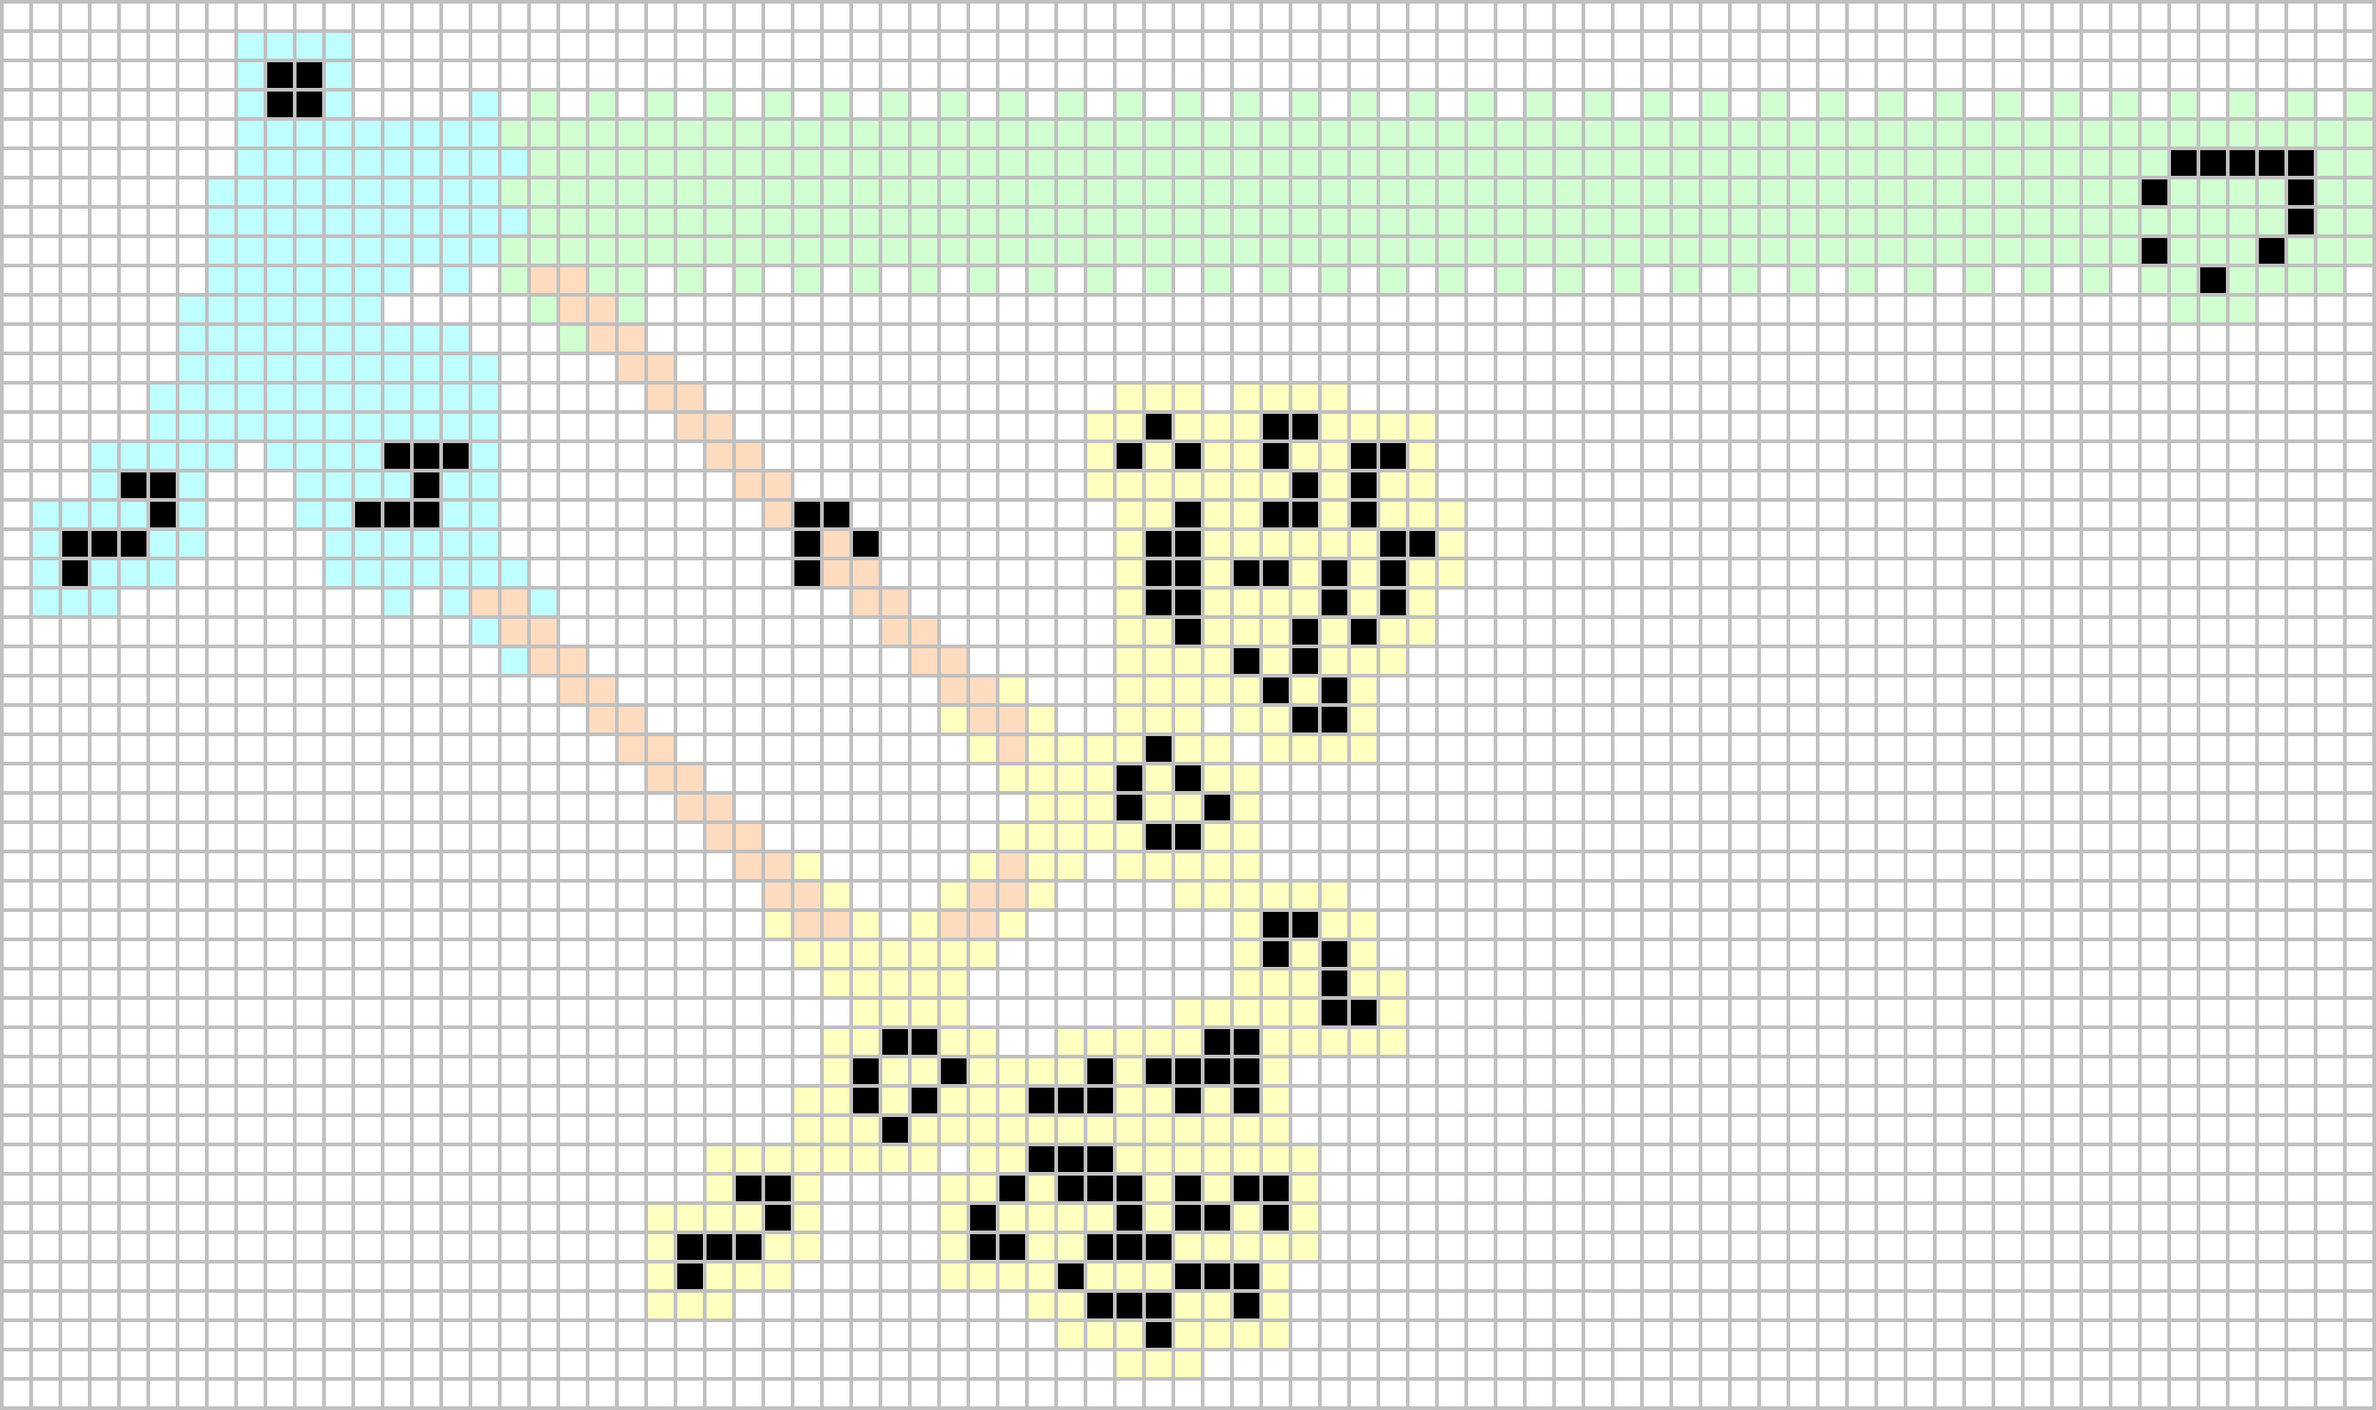
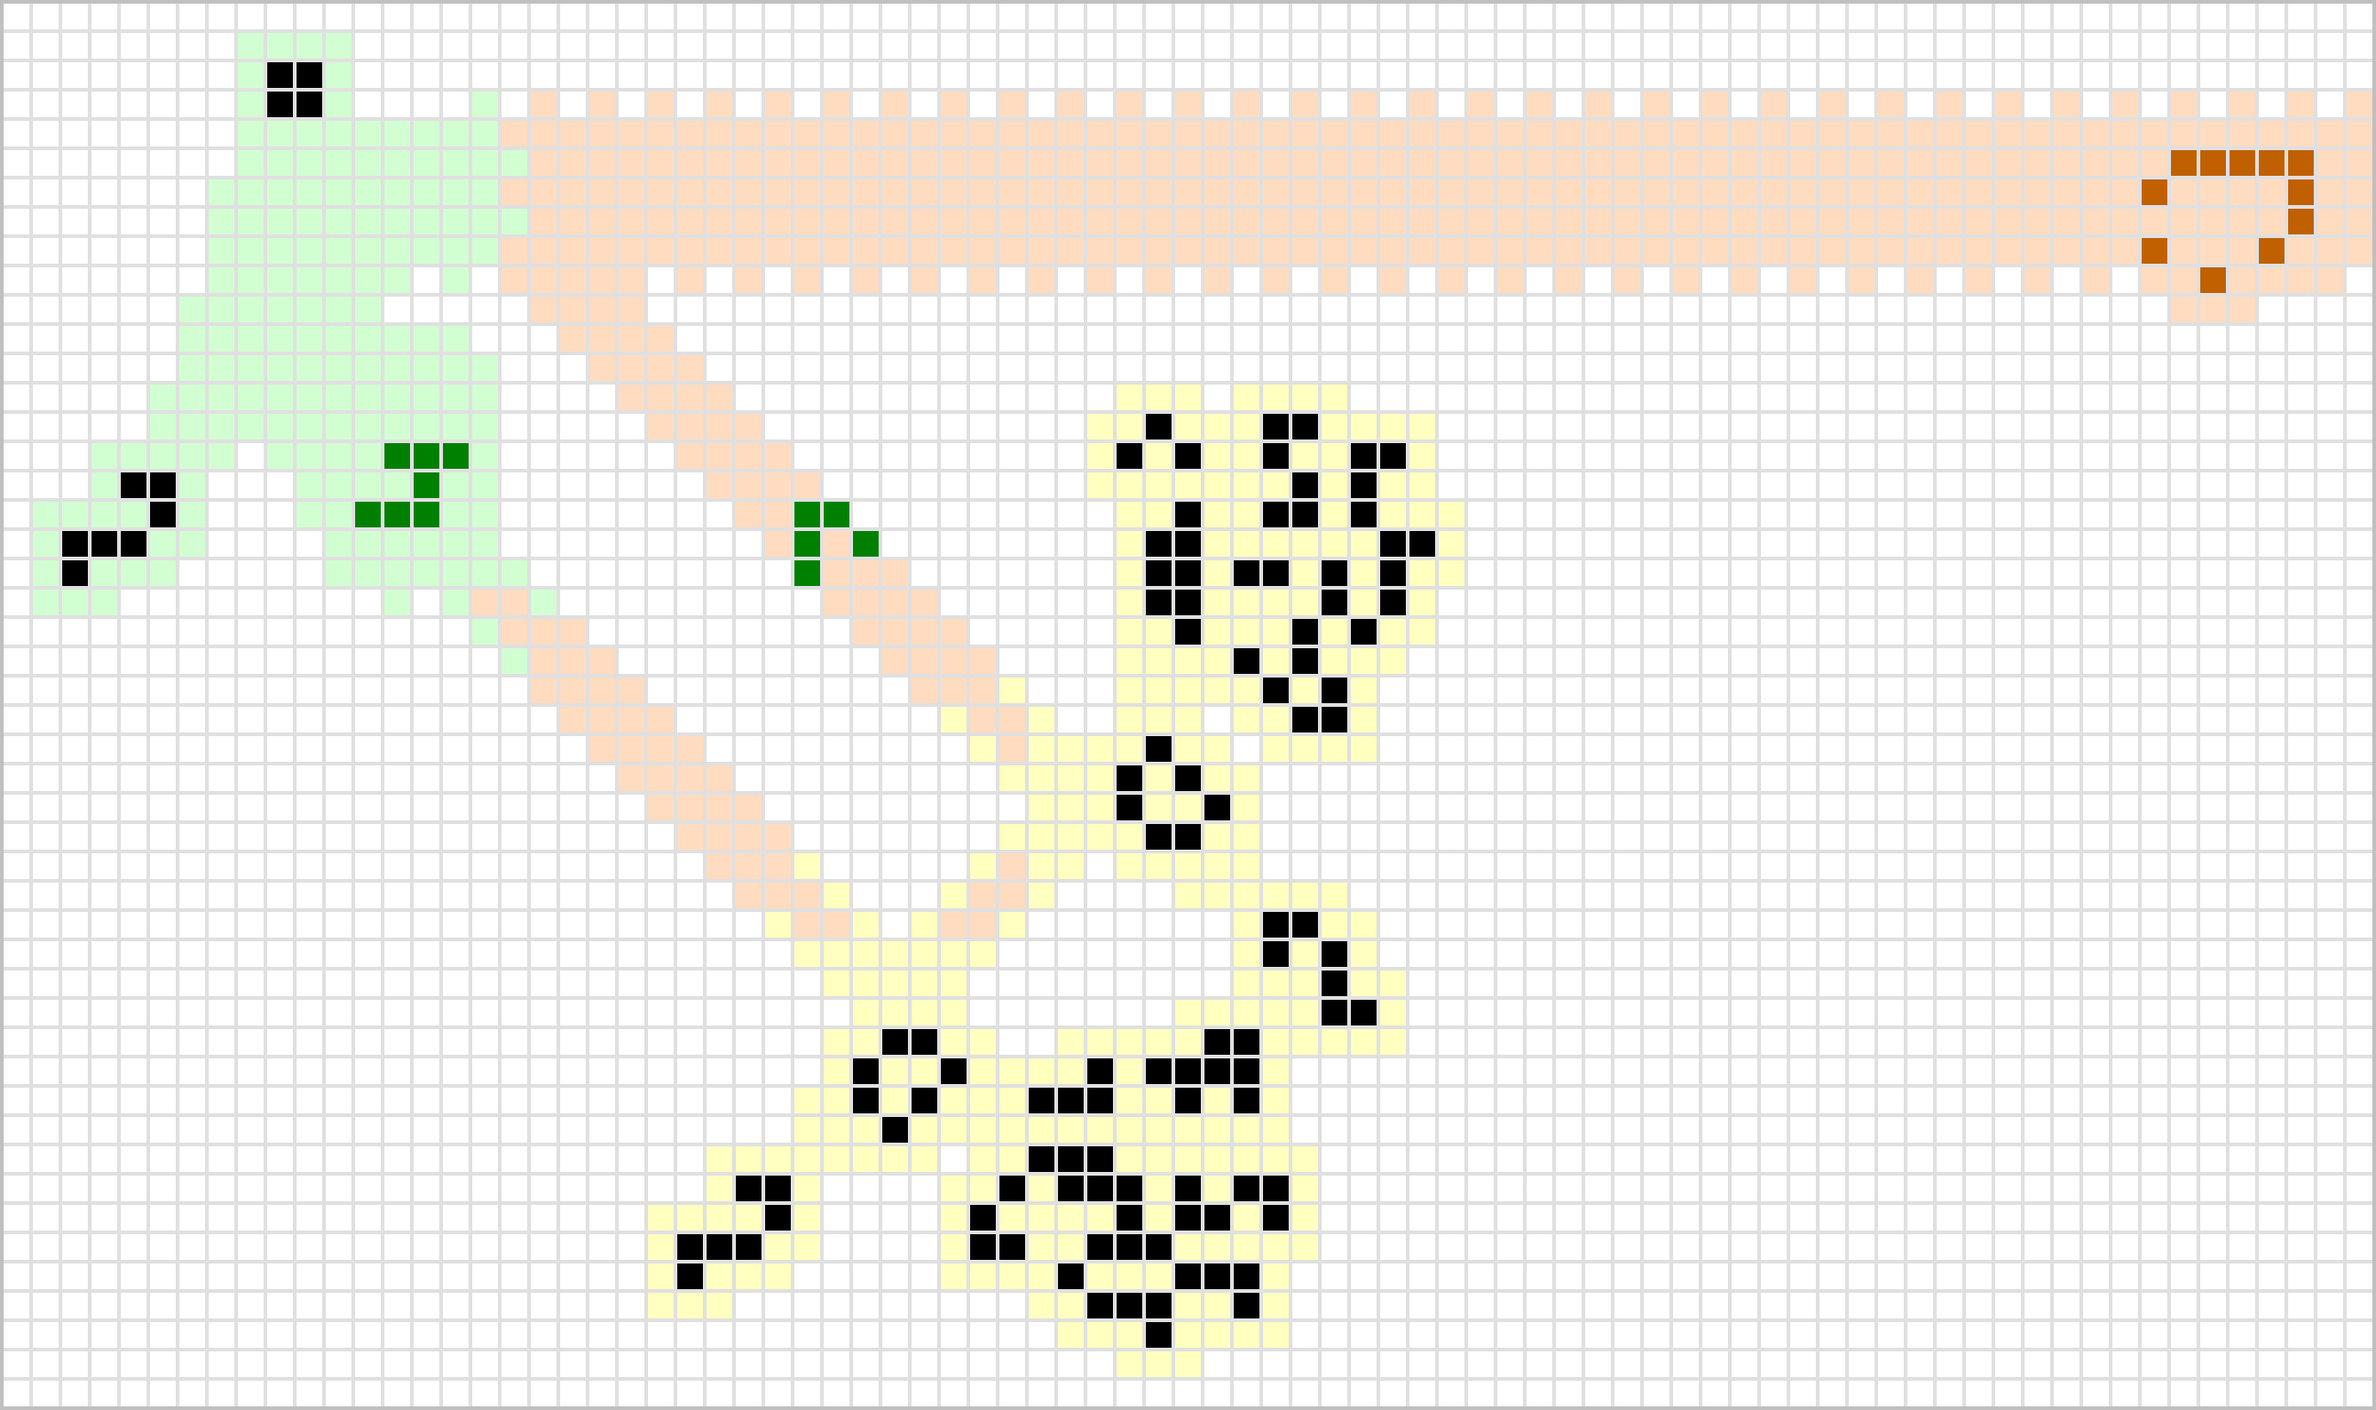
Ch8 cleanup: LWSS filters

diff --git a/glider_guns.tex b/glider_guns.tex
@@ -259,70 +259,83 @@ To illustrate the utility of this reaction, we can now construct a period~$15$ g
 % EXERCISE: introduce alternate p15 version that leads to smaller p15 gun
 
 
-% NJ is here in the cleanup process
-
 %%%%%%%%%%%%%%%%%%%%%%%%%%%%%%%%%%%%%%%%%%%%%%%%%%%%%%%%%%%%%%%%%%%%%%%%%
 %%   SUBSECTION: STREAMS OF OTHER SPACESHIPS
 %%%%%%%%%%%%%%%%%%%%%%%%%%%%%%%%%%%%%%%%%%%%%%%%%%%%%%%%%%%%%%%%%%%%%%%%%
 \section{Streams of Other Spaceships}
 
-Since most ways of implementing the glider insertion reaction of Figure~\ref{fig:lwss_squish} rely so heavily on the use of lightweight spaceships, we now briefly discuss how to efficiently create and manipulate lightweight (as well as middleweight and heavyweight) spaceships. We of course can create streams of these spaceships simply via the various $3$-glider syntheses that we saw in Chapter~\ref{chp:glider_synthesis}, but we are going to focus on reactions that let us save space over this na\"ive method.
+Since most ways of implementing the glider insertion reaction of Figure~\ref{fig:lwss_squish} rely so heavily on the use of lightweight spaceships, we now briefly discuss how to efficiently create and manipulate lightweight (as well as middleweight and heavyweight) spaceships. We of course can create streams of any of these xWSSes simply via the various $3$-glider syntheses that we saw in Chapter~\ref{chp:glider_synthesis}, but we are going to focus on reactions that let us save space over this na\"ive method.
 
 One particularly cheap way of creating lightweight and middleweight spaceships is the conduit displayed in Figure~\ref{fig:H_plus_G_to_WSS}, which converts a glider and a Herschel into whichever of the other two spaceships is desired (the only difference in these two reactions is the relative timing between the input Herschel and glider). Since the Herschel that is used in that collision creates a glider anyway, and that glider can simply be reflected back so as to collide with the next Herschel, this conduit can turn a Herschel stream into an LWSS stream or an MWSS stream reasonably directly.\footnote{This reaction only works with \emph{streams} of Herschels, rather than individual Herschels, since each Herschel must collide with the first natural glider of a Herschel that came before it. The period of that stream can be modified straightforwardly by adjusting the reflectors---see Exercise~\ref{exer:p156_adjust_lwss}.} However, the tight spacing of the required reflectors is such that this technique works best for streams whose period is a multiple of $3$, since p$3$ and p$6$ bumpers are some of the only reflectors that fit so close together.
 
 \begin{figure}[!htb]
 	\centering
-	\noindent\begin{tabular}{@{}cc@{}}
-		\noindent\begin{subfigure}{0.47\textwidth}
-			\centering
-			\patternimglink{0.089}{p14_pieces_lwss}
-			\caption{A period~$156$ Herschel stream being converted into an LWSS stream.}\label{fig:p14_pieces_lwss}
-		\end{subfigure} & \begin{subfigure}{0.49\textwidth}
-			\centering
-			\patternimglink{0.082}{H_G_to_MWSS}
-			\caption{A period~$171$ Herschel stream being converted into an MWSS stream.}\label{fig:H_G_to_MWSS}
-		\end{subfigure}
-	\end{tabular}
-	\caption{A conduit (highlighted in \bgbox{aquaback}{aqua}) that can convert a Herschel and glider collision into either (a) an LWSS or (b) an MWSS. By reflecting the first natural glider of the input Herschel (via the bumpers highlighted in \bgbox{yellowback2}{yellow}), this conduit can convert a Herschel stream into either an LWSS stream or an MWSS stream.}\label{fig:H_plus_G_to_WSS}
+	\begin{subfigure}{0.48\textwidth}
+		\centering
+		\patternimglink{0.08616147308}{p14_pieces_lwss}
+		\caption{A period~$156$ Herschel stream being converted into an LWSS stream.}\label{fig:p14_pieces_lwss}
+	\end{subfigure} \hfill \begin{subfigure}{0.49\textwidth}
+		\centering
+		\patternimglink{0.079}{H_G_to_MWSS}
+		\caption{A period~$171$ Herschel stream being converted into an MWSS stream.}\label{fig:H_G_to_MWSS}
+	\end{subfigure}
+	\caption{A conduit (highlighted in \bgbox{greenpastel}{green}) that can convert a Herschel and glider collision into either (a) an LWSS or (b) an MWSS. By reflecting the first natural glider of the input Herschel (via the bumpers highlighted in \bgbox{yellowback2}{yellow}), this conduit can convert a Herschel stream into either an LWSS stream or an MWSS stream.}\label{fig:H_plus_G_to_WSS}
 \end{figure}
 
-To create a reasonably small lightweight or middleweight spaceship gun of a large period, we can now simply attach this mechanism to the output of any sufficiently high-period glider gun of our choosing, with a syringe in between (as well as another Herschel conduit or two for spacing reasons). For example, the gun in Figure~\ref{fig:p84_lwss_gun_both}(a) uses this technique to fire a period~$84$ stream of lightweight spaceships. However, since this mechanism uses a stream of Herschels as input, we can often construct even smaller LWSS guns by attaching it directly to a Herschel track rather than to a gun and syringe. Another (slightly smaller) period~$84$ LWSS gun of this type is displayed in Figure~\ref{fig:p84_lwss_gun_both}(b).
+To create a reasonably small lightweight or middleweight spaceship gun of a large period, we can now simply attach this mechanism to the output of any sufficiently high-period glider gun of our choosing, with a syringe in between (as well as other Herschel conduits, as needed, for spacing reasons). For example, the gun in Figure~\ref{fig:p84_lwss_gun_adjustable} uses this technique to fire a period~$84$ stream of lightweight spaceships.
+
+However, since this mechanism uses a stream of Herschels as input, we can often construct even smaller LWSS guns by feeding Herschel into it directly from a Herschel track, rather than feeding them in via a glider gun and a syringe. A slightly smaller period~$84$ LWSS gun that uses this technique is displayed in Figure~\ref{fig:p84_lwss_gun}.
 
 \begin{figure}[!htb]
 	\centering
-	\noindent\begin{tabular}{@{}cc@{}}
-		\noindent\begin{subfigure}{0.45\textwidth}
-			\centering
-			\patternimglink{0.08}{p84_lwss_gun_adjustable}
-			\caption{A p$84$ version of the adjustable glider gun from Figure~\ref{fig:p80_adjustable_gun} (highlighted in \bgbox{orangeback}{orange}) whose output is converted into lightweight spaceships.}\label{fig:p84_lwss_gun_adjustable}
-		\end{subfigure} & \begin{subfigure}{0.51\textwidth}
-			\centering
-			\patternimglink{0.121}{p84_lwss_gun}
-			\caption{A p$84$ Herschel loop whose output is converted into LWSSes. The loop is sustained by the first natural glider of a Herschel being reflected (by the reflectors highlighted in \bgbox{yellowback2}{yellow}) back into a syringe.}\label{fig:p84_lwss_gun}
-		\end{subfigure}
-	\end{tabular}
+	\begin{subfigure}{0.45\textwidth}
+		\centering
+		\patternimglink{0.086}{p84_lwss_gun_adjustable}
+		\caption{A p$84$ version of the adjustable glider gun from Figure~\ref{fig:p80_adjustable_gun} (highlighted in \bgbox{orangeback2}{orange}) whose output is converted into lightweight spaceships.}\label{fig:p84_lwss_gun_adjustable}
+	\end{subfigure} \hfill \begin{subfigure}{0.52\textwidth}
+		\centering
+		\patternimglink{0.125}{p84_lwss_gun}
+		\caption{A p$84$ Herschel loop whose output is converted into LWSSes. The loop is sustained by the first natural glider of a Herschel being reflected (by the reflectors highlighted in \bgbox{yellowback2}{yellow}) back into a syringe.}\label{fig:p84_lwss_gun}
+	\end{subfigure}
 	\caption{Two p$84$ lightweight spaceship guns that make use of the Herschel-to-LWSS mechanism of Figure~\ref{fig:H_plus_G_to_WSS}(a) (highlighted in \bgbox{greenpastel}{green}). Syringes are highlighted in \bgbox{aquaback}{aqua} and Fx77 Herschel conduits (highlighted in \bgbox{magentaback}{magenta}) are used for spacing reasons.}\label{fig:p84_lwss_gun_both}
 \end{figure}
 
+% NJ is here in the cleanup process
+% NEXT: xWSS filters, then LWSS insertion afterwards
+
+We can also delete lightweight spaceships from a stream in much the same ways that we do with gliders. For example, a spark of pretty much any type can destroy a lightweight spaceship, so we can use sparky oscillators to filter (i.e., thin out) LWSS streams. Figure~\ref{fig:lwss_filters} illustrates to examples of how this technique can be used to double, or even triple, streams of certain periods. Another method of doubling the period of an LWSS stream, which has the advantage of working at any sufficiently-large period, was presented in Exercise~\ref{exer:twin_primer}.
+
+\begin{figure}[!htb]
+	\centering
+	\begin{subfigure}{0.28\textwidth}
+		\centering
+		\patternimglink{0.09}{lwss_filter_tnosed_p4}
+		\caption{The finger spark from a T-nosed p4\index{T-nosed p4} can be used to destroy every other LWSS in a stream of period $4n+2$ for any $n \geq 3$.}\label{fig:lwss_filter_tnosed_p4}
+	\end{subfigure} \hfill \begin{subfigure}{0.35\textwidth}
+		\centering\vspace*{0cm}
+		\patternimglink{0.1}{lwss_filter_blocker}
+		\caption{The dot spark from a blocker\index{blocker} can be used to destroy every other LWSS in a stream of period $8n+4$ for any $n \geq 2$.}\label{fig:lwss_filter_blocker}
+	\end{subfigure} \hfill \begin{subfigure}{0.335\textwidth}
+		\centering
+		\patternimglink{0.07880829015}{lwss_filter_pentadecathlon}
+		\caption{The thumb and domino sparks from a pentadecathlon\index{pentadecathlon} can be used to destroy two out of every three LWSSes in a stream of period $15n+5$ or $15n+10$ for any $n \geq 1$.}\label{fig:lwss_filter_pentadecathlon}
+	\end{subfigure}
+	\caption{Some filters (highlighted in \bgbox{aquaback}{aqua}) that can be used to double or triple the period of certain LWSS streams.}\label{fig:lwss_filters}
+\end{figure}
+
+% INSERTION NOTES:
+% http://conwaylife.com/forums/viewtopic.php?f=2&t=2154&start=0
+% http://conwaylife.com/forums/viewtopic.php?f=2&t=576&start=1300#p49345
+% LWSS Insertion theoretical minimum period is 16 (no, 14! why did I think 16 here? Is that the theoretical minimum VIA GLIDERS, or...?), no mechanism known yet. This works at period 18: http://conwaylife.com/forums/viewtopic.php?f=2&t=3552&start=25
+% (this post and one after it)\
+%http://conwaylife.com/forums/viewtopic.php?f=2&t=1142&hilit=helix+synth&start=25#p13125
+
+% MISC NOTES:
 % Direct H to MWSS as exercise in stable circuitry chapter:
 % http://conwaylife.com/forums/viewtopic.php?f=2&t=1599&p=23909#p23909 and posts right before it
 % Maybe backref as a footnote here?
 
-% LWSS insertion:
-% http://conwaylife.com/forums/viewtopic.php?f=2&t=2154&start=0
-% (this post and one after it) http://conwaylife.com/forums/viewtopic.php?f=2&t=1142&hilit=helix+synth&start=25#p13125
-
-% BLOCKER can also delete (use as filter) every other LWSS in a stream, and a bunch of others too. pentadecathlon, as in primer?
-
-% L/M/HWSS insertions:
-% http://conwaylife.com/forums/viewtopic.php?f=2&t=576&start=1300#p49345
-
 % See 1997 email Dieter Leithner Date: Tue, 8 Apr 1997 for mechanisms that downgrade and upgrade LWSS MWSS HWSS via 4 gliders each
-
-% Reference or put in LWSS filter from exer:twin_primer (chapter 6)
-
-% LWSS Insertion theoretical minimum period is 16, no mechanism known yet. This works at period 18:
-% http://conwaylife.com/forums/viewtopic.php?f=2&t=3552&start=25
 % LWSS mechanism implies MWSS mechanism via hammering
 % HWSS theoretical minimum is p18
 
@@ -1351,9 +1364,8 @@ This collection of small glider guns is now being maintained by Chris Cain and D
 	\mfilbreak
 	
 	
-	% TODO: clean up this exercise and make it more specific
 	\begin{problemstar}\label{exer:p4_glider_filter}
-		We saw several filters that can double the period of every stream of lightweight spaceships with period $4n+2$. Explain why there cannot exist a filter capable of doubling the period of every stream of \emph{gliders} with period $4n+2$.
+		We saw in Figure~\ref{fig:lwss_filter_tnosed_p4} that a filter can be used to double the period of any stream of lightweight spaceships with period $4n+2$ ($n \geq 3$). Explain why there cannot exist a filter capable of doubling the period of every stream of \emph{gliders} with period $4n+2$ ($n \geq 3$).
 	\end{problemstar}
 %
 %	

diff --git a/preface.tex b/preface.tex
@@ -28,7 +28,7 @@ Conway's Game of Life is an extremely visual game, so this book makes very liber
 
 	\noindent\begin{minipage}{\linewidth}
 		\centering\patternimglink{0.125}{lwss}
-		\captionof{figure}{An object moving to the right with a gradient behind it indicating how long ago it was in each location. White cells were never alive, black cells are currently alive, blue cells were alive recently, and orange cells were alive long ago (roughly $75$~generations or more).}\label{fig:preface_lwss}\bigskip
+		\captionof{figure}{An object moving to the right with a gradient behind it indicating how long ago it was in each location. White cells were never alive, black cells are currently alive, blue cells were alive recently, and orange cells were alive long ago.}\label{fig:preface_lwss}\bigskip
 	\end{minipage}
 	
 	\item If we really wish to emphasize what a pattern looks like in different generations, all generations of interest will be displayed, along with arrows that specify how many generations have passed. For example, if we want to clarify exactly what the pattern in Figure~\ref{fig:preface_lwss} does as it moves from left to right, we might display it as in Figure~\ref{fig:preface_lwss_2}.\bigskip
@@ -50,7 +50,7 @@ Conway's Game of Life is an extremely visual game, so this book makes very liber
 		\begin{minipage}[b]{0.4\textwidth}
 			\centering
 			\patternimg{0.111}{fx77_p5_eat}
-			\captionof{figure}{A \bgbox{greenback}{dark green} ``Herschel'' comes in from the left and creates the \bgbox{orangeback}{dark orange} Herschel on the right. Cells highlighted in blue are constantly changing due to being part of an oscillator, whereas cells that are light orange are usually dead, except when the Herschel passes through.}\label{fig:preface_fx77_p5_eat}
+			\captionof{figure}{A \bgbox{greenback}{dark green} Herschel comes in from the left and creates the \bgbox{orangeback}{dark orange} Herschel on the right. Cells highlighted in blue are constantly changing due to being part of an oscillator, whereas cells that are light orange are usually dead, except when the Herschel passes through.}\label{fig:preface_fx77_p5_eat}
 		\end{minipage}\bigskip
 	\end{minipage}
 	
